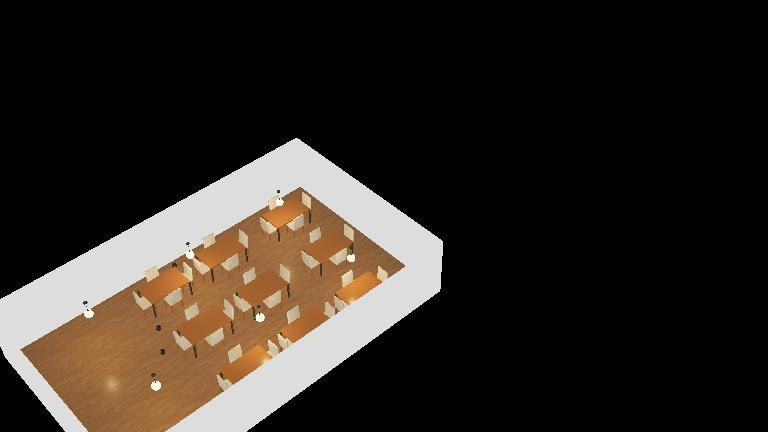
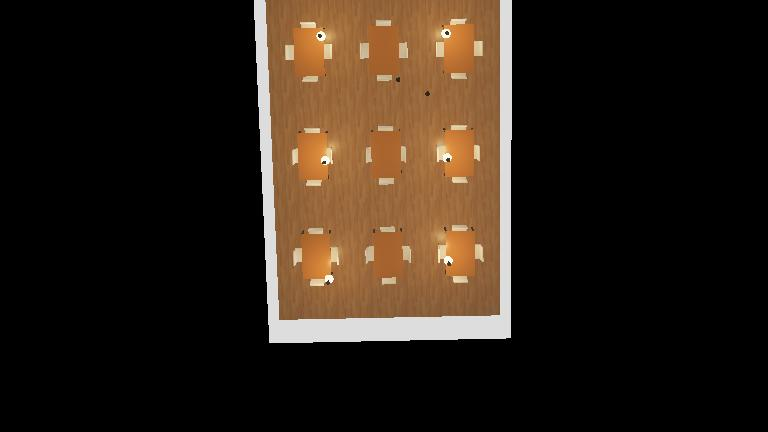
Updated map to match new world

diff --git a/controllers/lib_shared/map_module.py b/controllers/lib_shared/map_module.py
@@ -1,34 +1,37 @@
 import math
-from typing import Tuple, Optional, List
 from .global_planner import OccupancyGrid
 
 # --- CONFIGURATION ---
-GRID_W, GRID_H = 35, 21 # cells
-DEFAULT_CELL_SIZE = 7.7/21 # meters
+GRID_W, GRID_H = 36, 24 # cells
+DEFAULT_CELL_SIZE = 8/24 # meters
 ORIGIN = -6.2, -2.9 # meters (bottom-left corner in world coordinates)
 # The 21x35 Map String
 CAFETERIA_MAP = """
-###################################
-#...................###############
-#...................###############
-#.....########....................#
-#.....########....................#
-#.....########....................#
-#.....##..........................#
-#.....##..........................#
-#.....##..........................#
-#.....##..####..####..#...####....#
-#.....##..####..####..#...####....#
-#.....##..####..####..#...####....#
-#.....##..####..####..#...####....#
-#.....##..............#...........#
-#.....##..####..####..#...####....#
-#.....##..####..####..#...####....#
-#.....##..####..####..#...####....#
-#.....##..####..####..#...####....#
-#.....##..............#...........#
-#.....#################...........#
-###################################
+####################################
+#..................................#
+#..................................#
+#..................................#
+#.....#######.........#######......#
+#.....#######.........#######......#
+#.....#######.........#######......#
+#.....#######.........#######......#
+#..................................#
+#..................................#
+#..................................#
+#.....#######.........#######......#
+#.....#######.........#######......#
+#.....#######.........#######......#
+#.....#######.........#######......#
+#..................................#
+#..................................#
+#..................................#
+#.....#######.........#######......#
+#.....#######.........#######......#
+#.....#######.........#######......#
+#.....#######.........#######......#
+#..................................#
+#..................................#
+####################################
 """
 
 def get_map(robot=None, gps=None, timestep=None, force_recalibrate=False, verbose=True) -> OccupancyGrid:
